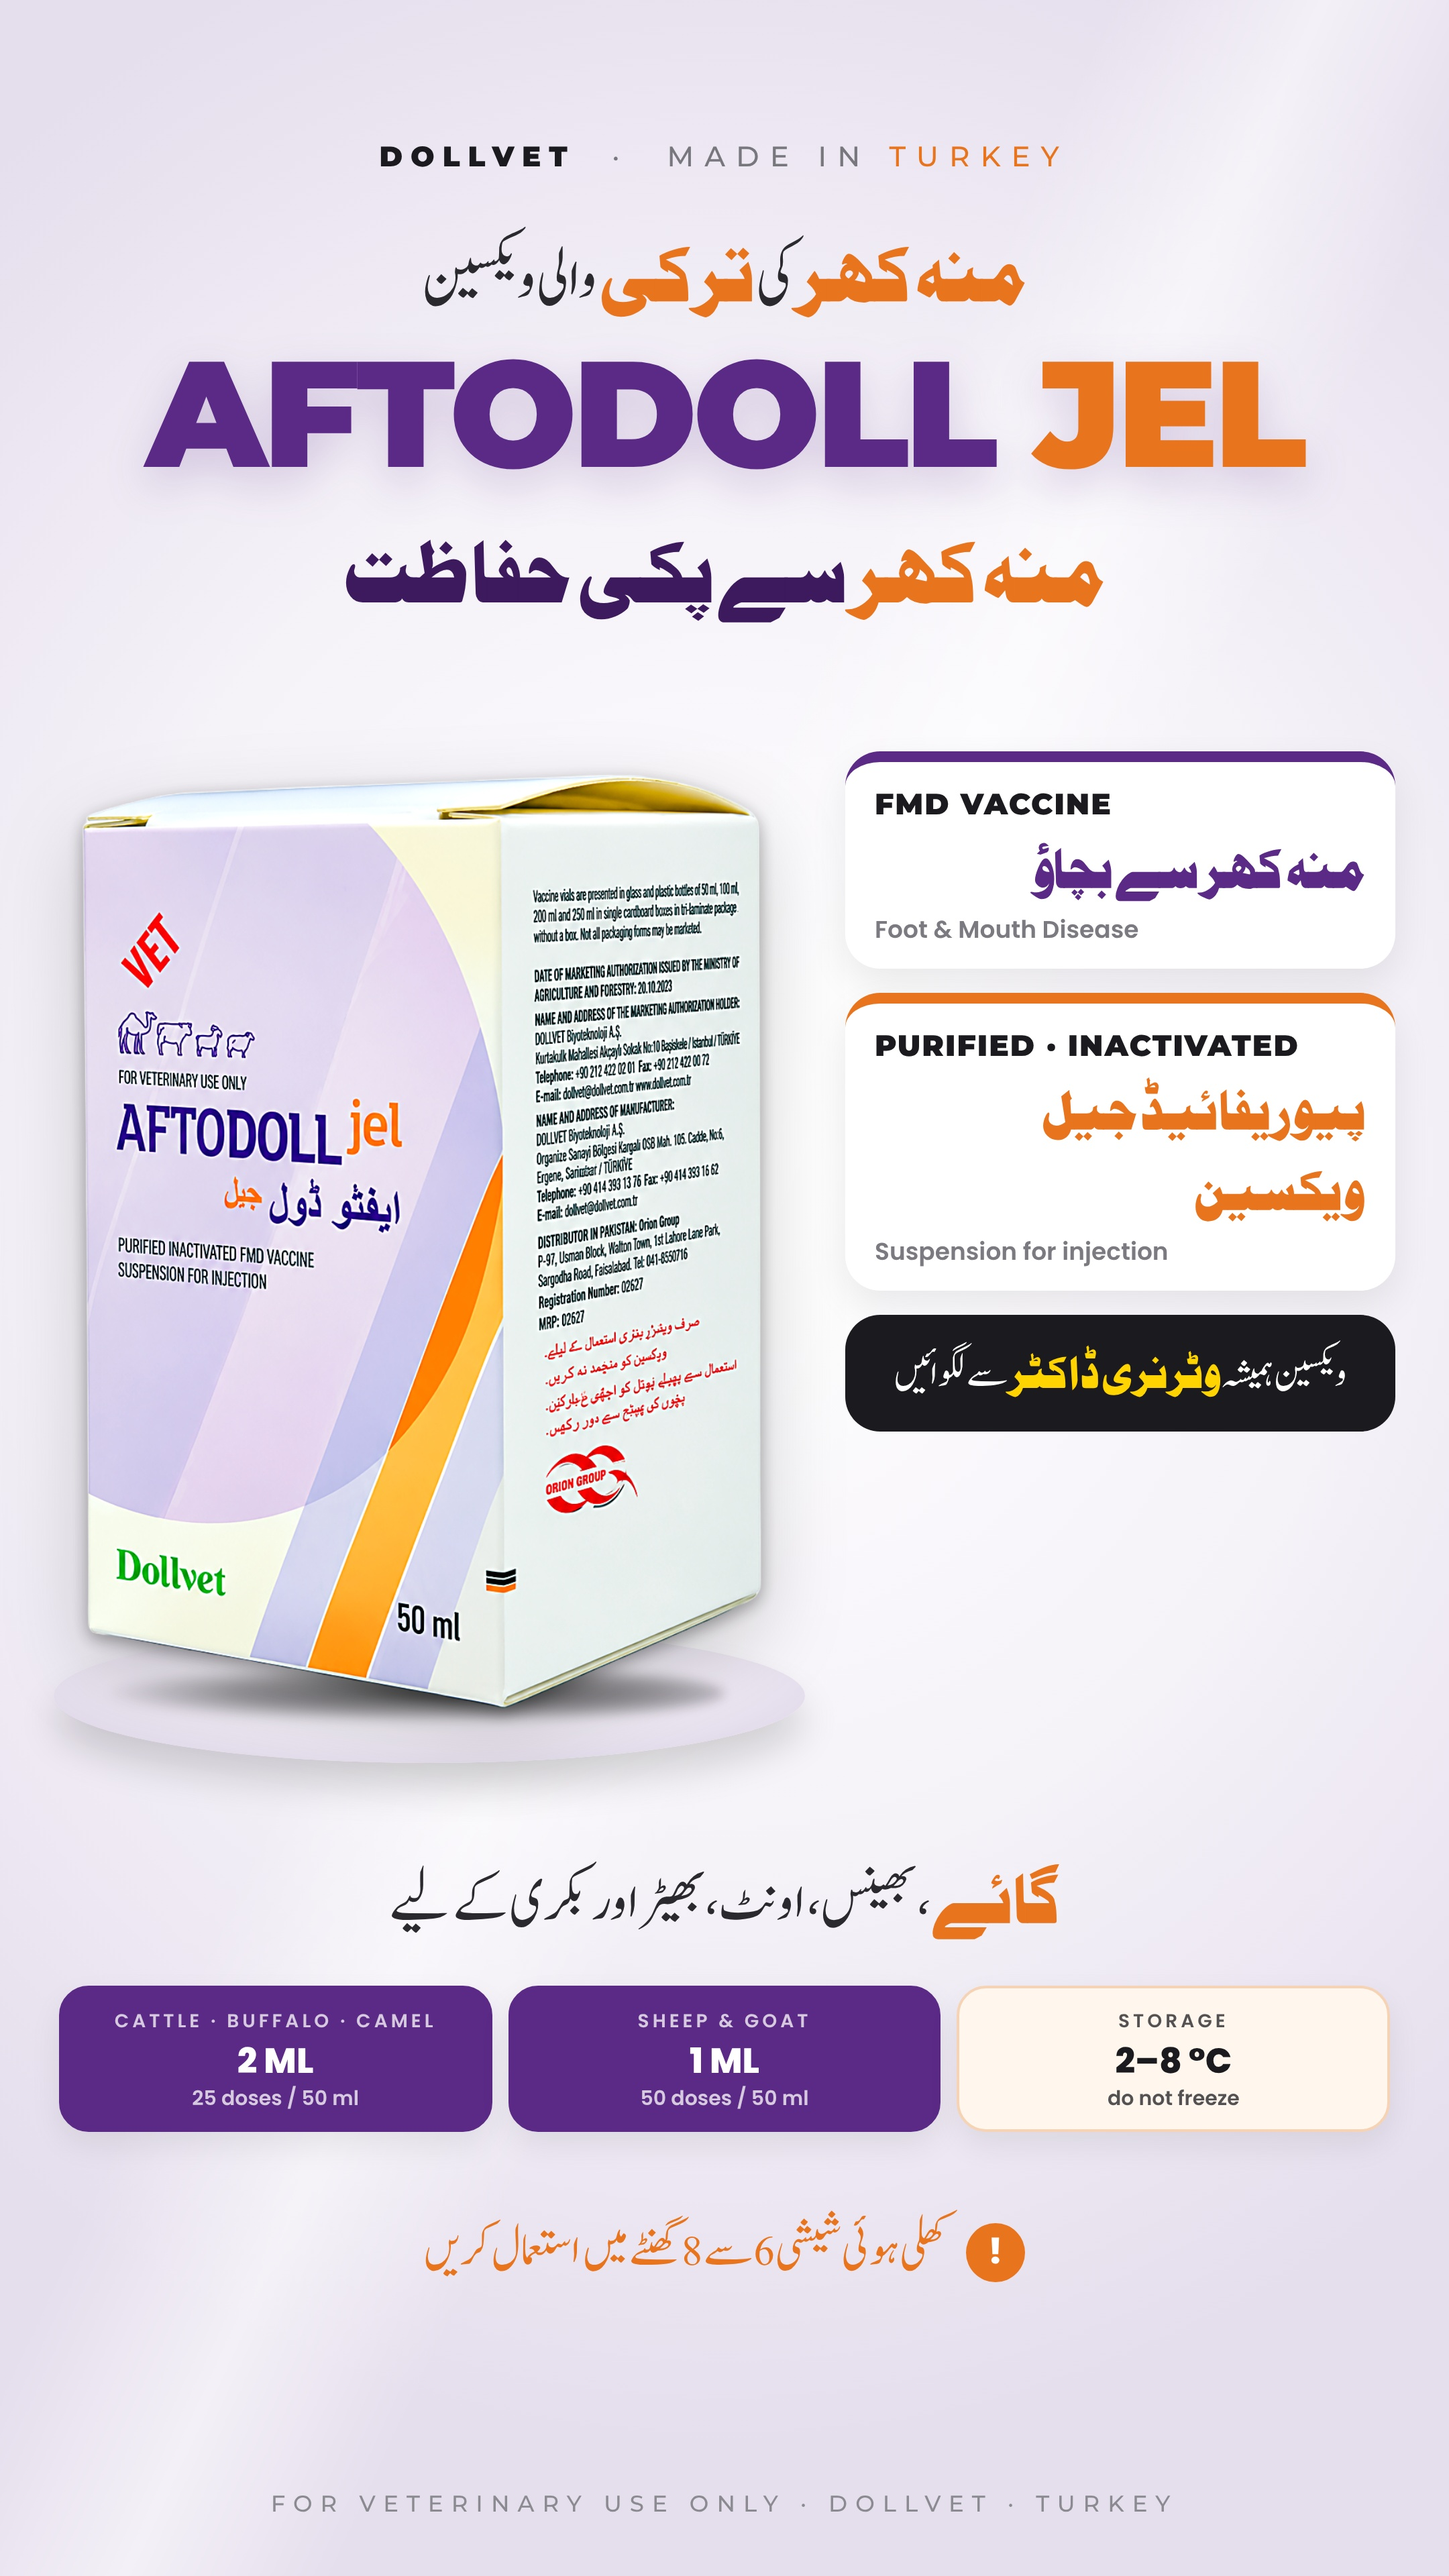
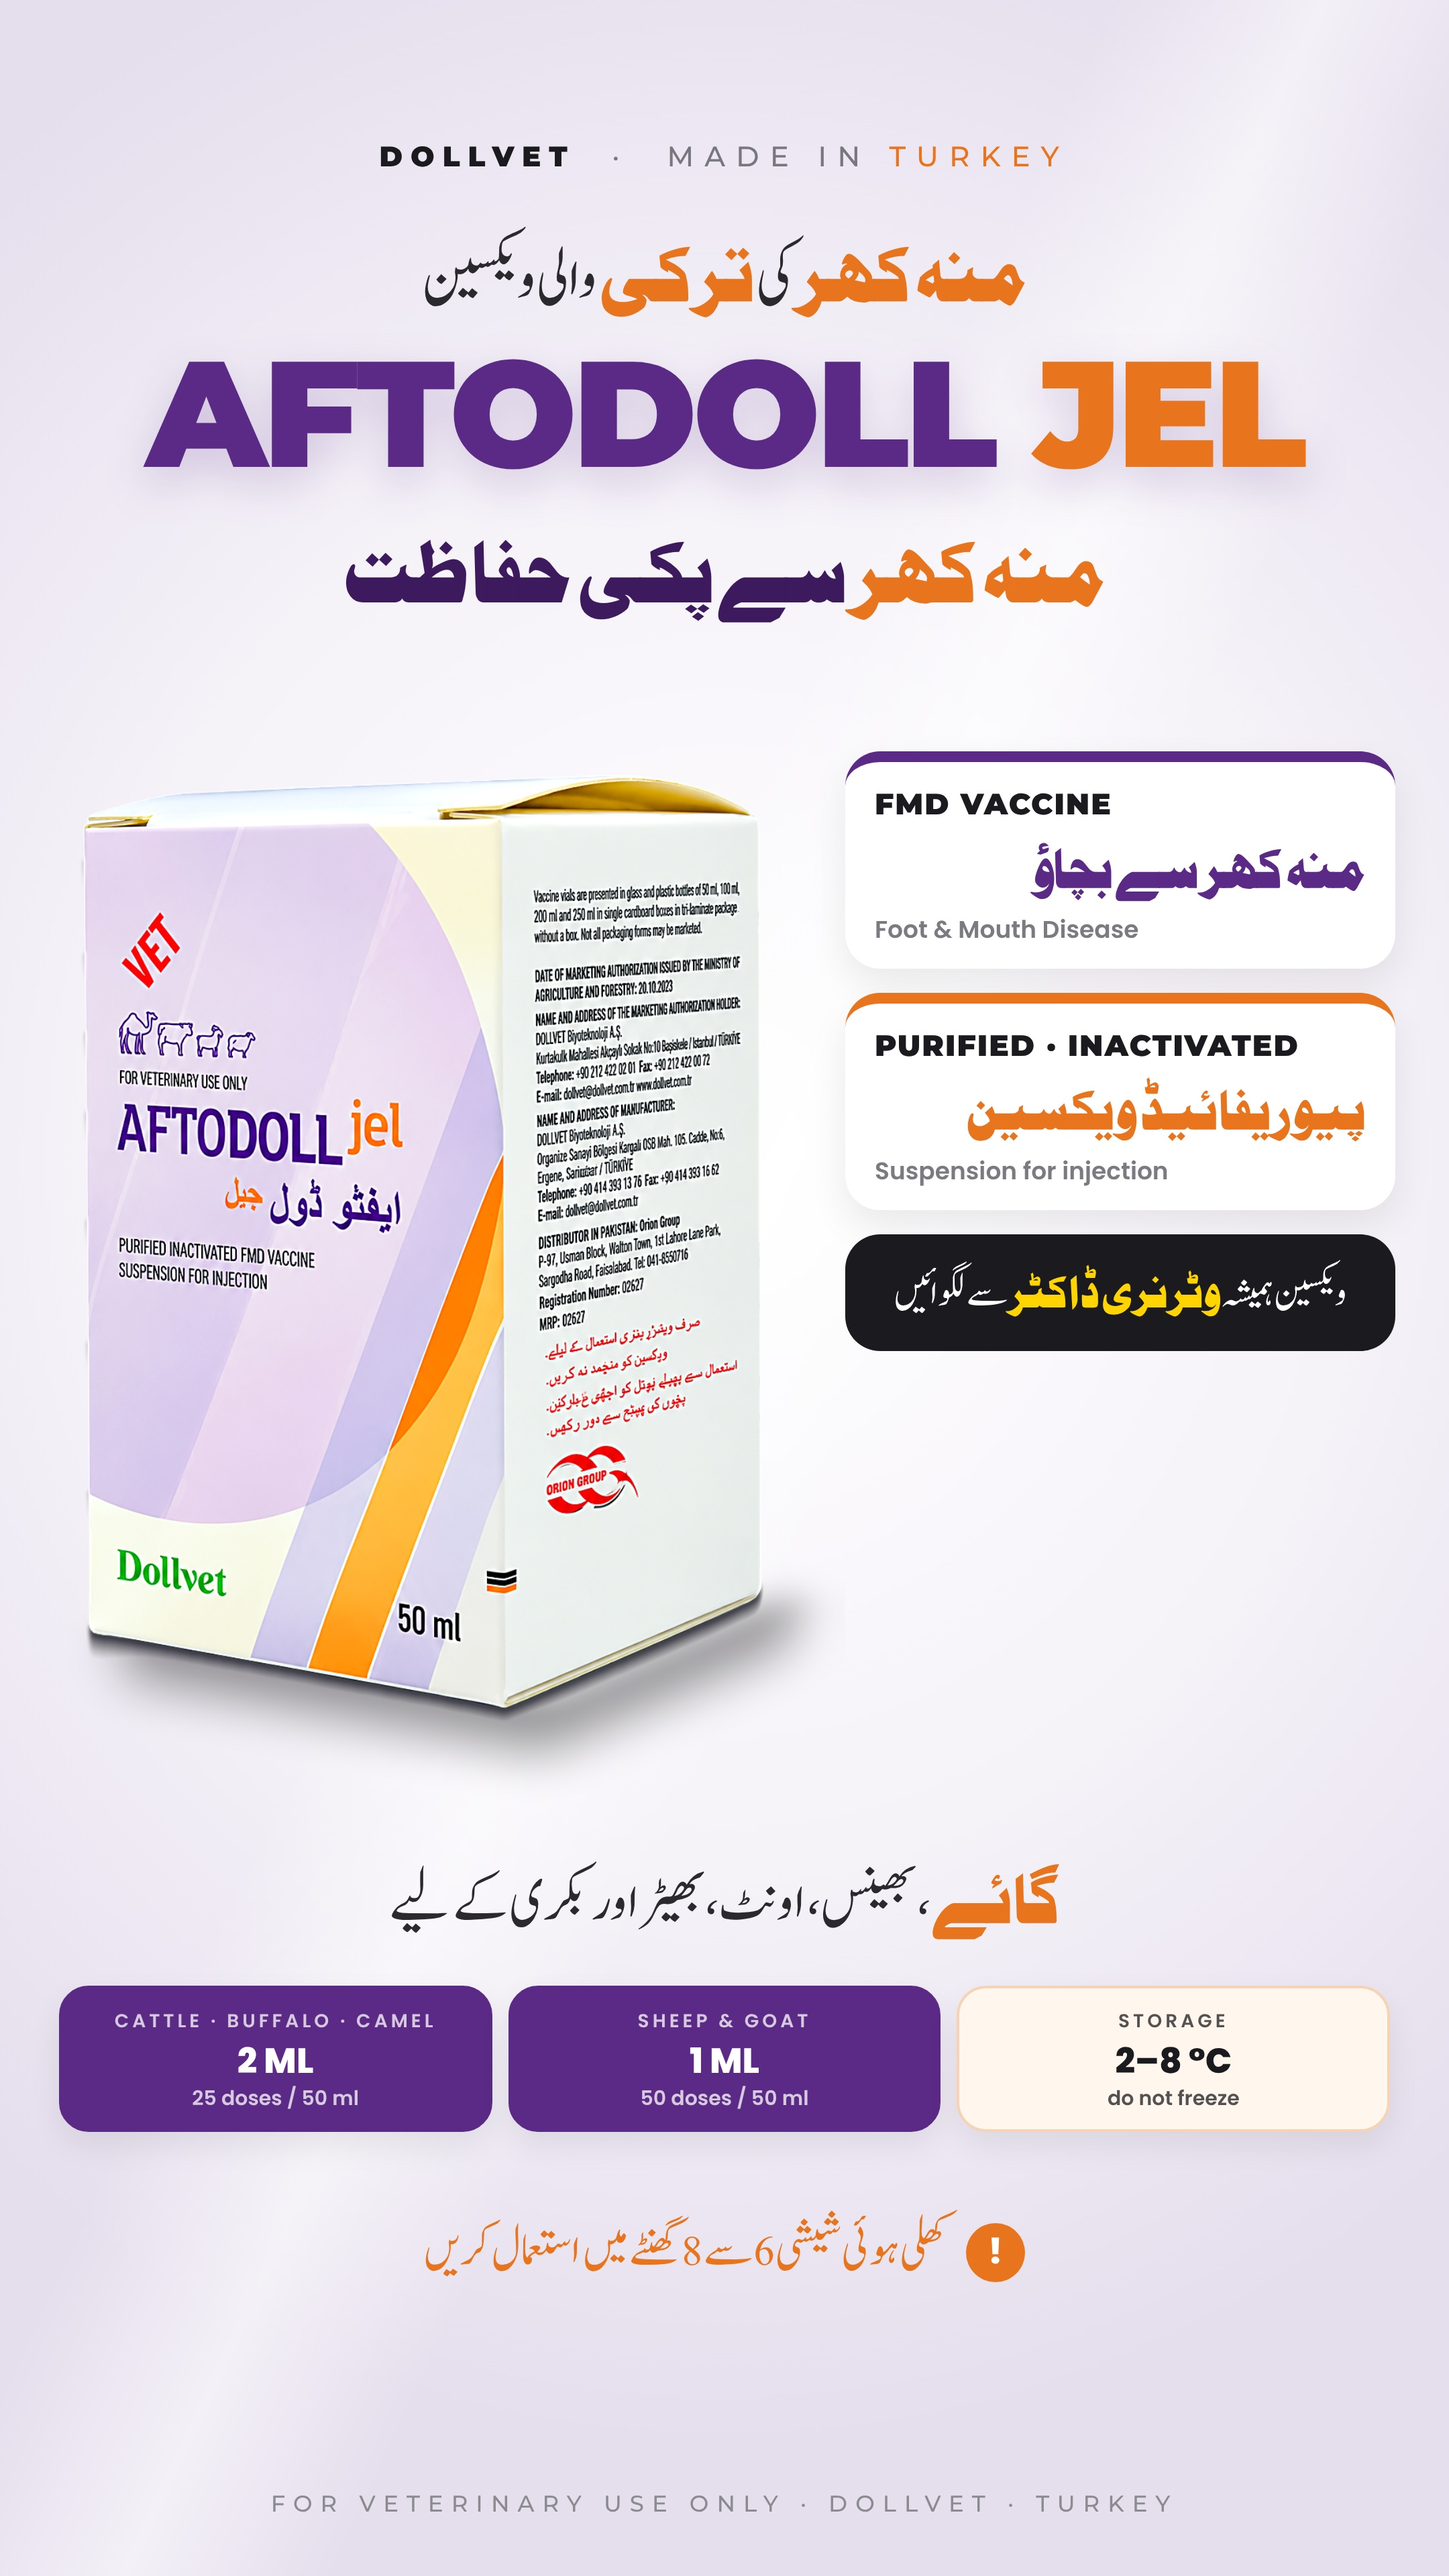
Grounded product shadows (perspective-aware contact + ambient) for Aftodoll and Tolomec posts
Claude-Session: https://claude.ai/code/session_0139To4Bi5mkGo2BmfVPNRP3

Changed region(s): [[0.062, 0.3125, 0.9616, 0.7188], [0.031, 0.3125, 0.2792, 0.625]]

diff --git a/tools/posts/aftodoll_post.py b/tools/posts/aftodoll_post.py
@@ -15,7 +15,7 @@ fonts=[{"family":"Noori","path":F("JameelNooriNastaleeq-400.ttf"),"weight":400,"
  {"family":"Poppins","path":F("Poppins-800.ttf"),"weight":800,"style":"normal"}]
 d=R/"Video Edits/Export/aftodoll-post"; w=d/"work"; w.mkdir(parents=True,exist_ok=True)
 
-im=Image.open(R/"Video Edits/Raw/aftodoll/box-cutout.png").convert("RGBA"); a=im.split()[3]
+im=Image.open(R/"Video Edits/Raw/aftodoll/box-grounded.png").convert("RGBA"); a=im.split()[3]
 x=np.asarray(im.convert("RGB")).astype(np.float32)/255
 lo=np.percentile(x[np.asarray(a)>128],1.5,axis=0); hi=np.percentile(x[np.asarray(a)>128],98.5,axis=0)
 x=np.clip((x-lo)/(hi-lo),0,1)                       # auto levels per channel (removes the grey/yellow cast)
@@ -27,7 +27,7 @@ rgb.putalpha(a); box=w/"box.png"; rgb.save(box)
 T="#5B2A86"; T2="#7E45B5"; TD="#3D1A5E"; RED="#E8741E"; INK="#1B1B1F"
 chk='<svg width="22" height="22" viewBox="0 0 24 24"><path d="M5 12.5l4.2 4.2L19 7" fill="none" stroke="#fff" stroke-width="3.6" stroke-linecap="round" stroke-linejoin="round"/></svg>'
 cards=[("FMD VACCINE","منہ کھر سے بچاؤ","Foot & Mouth Disease"),
-       ("PURIFIED · INACTIVATED","پیوریفائیڈ جیل ویکسین","Suspension for injection")]
+       ("PURIFIED · INACTIVATED","پیوریفائیڈ ویکسین","Suspension for injection")]
 css=f"""*{{margin:0;padding:0;box-sizing:border-box}}
 #p{{position:absolute;inset:0;overflow:hidden;font-family:Poppins;color:{INK};background:radial-gradient(ellipse 80% 50% at 50% 45%,#FFFFFF 0%,#F5F2F8 55%,#E5DEED 100%)}}
 .sheen{{position:absolute;inset:0;background:linear-gradient(115deg,transparent 42%,rgba(255,255,255,.55) 50%,transparent 58%)}}
@@ -37,7 +37,7 @@ css=f"""*{{margin:0;padding:0;box-sizing:border-box}}
 .hero i{{font-style:normal;color:{RED}}}
 .sub{{position:absolute;top:382px;left:0;right:0;text-align:center;direction:rtl;font:62px/1.4 Aslam;color:{TD}}}
 .sub b{{color:{RED};font-weight:400}}
-.box{{position:absolute;left:60px;top:575px;height:700px;z-index:2;filter:drop-shadow(0 4px 6px rgba(0,0,0,.35)) drop-shadow(0 22px 30px rgba(0,0,0,.18))}}
+.box{{position:absolute;left:0px;top:575px;height:784px;z-index:2;}}
 .cs{{position:absolute;left:80px;top:1240px;width:460px;height:44px;border-radius:50%;background:radial-gradient(ellipse at 55% 50%,rgba(0,0,0,.7),rgba(0,0,0,.35) 45%,transparent 72%);filter:blur(4px);z-index:1}}
 .disc{{position:absolute;left:40px;top:1214px;width:560px;height:100px;border-radius:50%;background:radial-gradient(ellipse at 50% 35%,#fff,#ECE6F2 60%,#D6CCE2);box-shadow:0 18px 28px rgba(0,0,0,.15)}}
 .cards{{position:absolute;left:630px;right:40px;top:560px;display:flex;flex-direction:column;gap:18px}}
@@ -62,7 +62,7 @@ html=f"""<div id="p"><div class="sheen"></div>
 <div class="l1"><span>منہ کھر</span> کی <span>ترکی</span> والی ویکسین</div>
 <div class="hero">AFTODOLL <i>JEL</i></div>
 <div class="sub"><b>منہ کھر</b> سے پکی حفاظت</div>
-<div class="disc"></div><div class="cs"></div><img class="box" src="file://{box}">
+<img class="box" src="file://{box}">
 <div class="cards">{cs}<div class="two"><div class="u">ویکسین ہمیشہ <b>وٹرنری ڈاکٹر</b> سے لگوائیں</div></div></div>
 <div class="note"><span>گائے</span>، بھینس، اونٹ، بھیڑ اور بکری کے لیے</div>
 <div class="chips">

diff --git a/tools/posts/tolomec_post.py b/tools/posts/tolomec_post.py
@@ -15,7 +15,7 @@ fonts=[{"family":"Noori","path":F("JameelNooriNastaleeq-400.ttf"),"weight":400,"
  {"family":"Poppins","path":F("Poppins-800.ttf"),"weight":800,"style":"normal"}]
 d=R/"Video Edits/Export/tolomec-post"; w=d/"work"; w.mkdir(parents=True,exist_ok=True)
 hero=R/"Video Edits/Raw/tolomec/box-hero.png"
-im=Image.open(R/"Video Edits/Raw/tolomec/box-hero-cutout.png").convert("RGBA"); a=im.split()[3]
+im=Image.open(R/"Video Edits/Raw/tolomec/box-grounded.png").convert("RGBA"); a=im.split()[3]
 x=np.asarray(im.convert("RGB")).astype(np.float32)/255
 lo=np.percentile(x[np.asarray(a)>128],1.5,axis=0); hi=np.percentile(x[np.asarray(a)>128],98.5,axis=0)
 x=np.clip((x-lo)/(hi-lo),0,1)                       # auto levels per channel (removes the grey/yellow cast)
@@ -37,7 +37,7 @@ css=f"""*{{margin:0;padding:0;box-sizing:border-box}}
 .hero i{{font-style:normal;color:{T}}}
 .sub{{position:absolute;top:382px;left:0;right:0;text-align:center;direction:rtl;font:62px/1.4 Aslam;color:{TD}}}
 .sub b{{color:{RED};font-weight:400}}
-.box{{position:absolute;left:100px;top:530px;height:770px;z-index:2;filter:drop-shadow(0 4px 6px rgba(0,0,0,.35)) drop-shadow(0 22px 30px rgba(0,0,0,.18))}}
+.box{{position:absolute;left:50px;top:530px;height:862px;z-index:2;}}
 .cs{{position:absolute;left:110px;top:1262px;width:420px;height:44px;border-radius:50%;background:radial-gradient(ellipse at 55% 50%,rgba(0,0,0,.7),rgba(0,0,0,.35) 45%,transparent 72%);filter:blur(4px);z-index:1}}
 .disc{{position:absolute;left:40px;top:1238px;width:560px;height:100px;border-radius:50%;background:radial-gradient(ellipse at 50% 35%,#fff,#E3EBEB 60%,#C9D6D6);box-shadow:0 18px 28px rgba(0,0,0,.15)}}
 .cards{{position:absolute;left:630px;right:40px;top:560px;display:flex;flex-direction:column;gap:18px}}
@@ -62,7 +62,7 @@ html=f"""<div id="p"><div class="sheen"></div>
 <div class="l1"><span>اٹلی</span> والا <span>جگر</span> اور <span>چمڑے</span> کا زبردست انجیکشن</div>
 <div class="hero">TOLOMEC <i>PLUS</i></div>
 <div class="sub"><b>جگر کے کیڑے</b> + اسکن، ایک ساتھ</div>
-<div class="disc"></div><div class="cs"></div><img class="box" src="file://{box}">
+<img class="box" src="file://{box}">
 <div class="cards">{cs}<div class="two"><div class="u"><bdi style="font:900 34px Montserrat;color:#FFD400;letter-spacing:1px">2 IN 1</bdi> &nbsp;ایک ہی انجیکشن میں دونوں کام</div></div></div>
 <div class="note"><span>گائے</span> اور بھینس کے لیے</div>
 <div class="chips">

diff --git a/tools/posts/ground.py b/tools/posts/ground.py
@@ -1,0 +1,41 @@
+#!/usr/bin/env python3
+"""Make a product cutout sit on the ground: adds a contact shadow that follows the real bottom edges
+(perspective-aware, per column) + a soft ambient shadow. Output = RGBA with the shadow baked in.
+    python3 tools/posts/ground.py <cutout.png> <out.png> [--light left|right]"""
+import sys
+import numpy as np
+from PIL import Image, ImageFilter
+from scipy import ndimage as nd
+
+def ground(src, out, light="left"):
+    im = Image.open(src).convert("RGBA"); im = im.crop(im.getbbox())
+    a = np.array(im)[..., 3] > 100
+    H, W = a.shape; pad = int(H * 0.12); side = int(W * 0.12)
+    sh = np.zeros((H + pad, W + 2 * side), np.float32)
+    base = np.full(W, -1)
+    for x in range(W):
+        c = np.where(a[:, x])[0]
+        if len(c): base[x] = c.max()
+    xs = np.where(base >= 0)[0]
+    for x in xs:                                   # contact shadow: dark right at the edge, fading down
+        y0 = base[x]; L = int(H * 0.035)
+        for k in range(L):
+            sh[y0 - 2 + k, x + side] = max(sh[y0 - 2 + k, x + side], (1 - k / L) ** 1.6)
+    contact = nd.gaussian_filter(sh, (3, 2.5)) * 0.95
+    amb = np.zeros_like(sh)                         # ambient: footprint smeared away from the light
+    for x in xs:
+        y0 = base[x]; L = int(H * 0.09)
+        for k in range(L):
+            amb[y0 - 4 + k, x + side] = max(amb[y0 - 4 + k, x + side], (1 - k / L) ** 1.2)
+    shift = int(W * 0.05) * (1 if light == "left" else -1)
+    amb = nd.shift(amb, (0, shift), order=1)
+    amb = nd.gaussian_filter(amb, (int(H * 0.012) + 4, int(W * 0.03) + 6)) * 0.55
+    alpha = np.clip(np.maximum(contact, amb), 0, 1)
+    canvas = Image.new("RGBA", (W + 2 * side, H + pad), (0, 0, 0, 0))
+    shadow = Image.fromarray((alpha * 255).astype(np.uint8))
+    canvas.paste(Image.new("RGBA", canvas.size, (20, 18, 28, 255)), (0, 0), shadow)
+    canvas.alpha_composite(im, (side, 0))
+    canvas.save(out)
+
+if __name__ == "__main__":
+    ground(sys.argv[1], sys.argv[2], sys.argv[4] if len(sys.argv) > 4 else "left")
